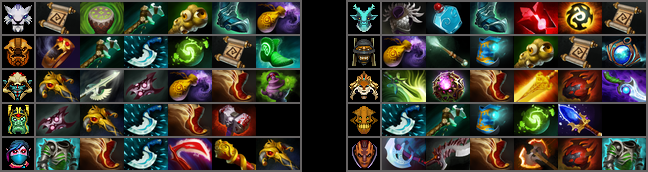
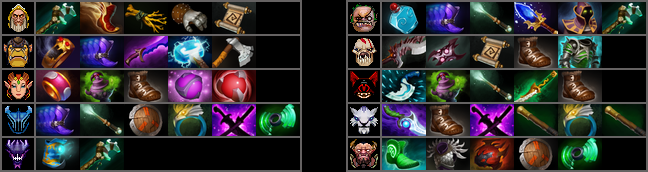
add guessing game

diff --git a/bot.py b/bot.py
@@ -10,6 +10,7 @@ from token_and_api_key import *
 from hero_dictionary import hero_dic
 from hero_dictionary import item_dic
 from hero_dictionary import game_mode_dic
+from random import randint
 
 logging.basicConfig(level=logging.INFO)
 client = discord.Client()
@@ -368,6 +369,22 @@ def big_pic(match_number, player_id):
     cv2.imwrite('images/heroes/lineup/itemlist2.png', pic3)
 
 
+def guessing_game():
+    player_id = array_of_ids[randint(0, len(array_of_ids)-1)]
+    custom_args = {
+                'result.players.account_id': player_id}
+    custom_args.update(match_search_args)
+    cursor = db['{}'.format(player_id)].find(custom_args)
+    cursor.sort('result.start_time', -1)
+    hist = list(cursor)
+    match_number = randint(0, len(hist)-1)
+    for i in range(10):
+        if player_id == hist[match_number]['result']['players'][i]['account_id']:
+            player_index = i
+    hero_id = hist[match_number]['result']['players'][player_index]['hero_id']
+    hero = hero_dic[hero_id]
+    big_pic(match_number, player_id)
+    return [hero, dic_reverse[player_id]]
 @client.event
 async def on_message(message):
     # do not want the bot to reply to itself
@@ -487,11 +504,31 @@ async def on_message(message):
             match_number = int(content[1])
             big_pic(match_number, player_id)
         await client.send_file(
-            message.channel, 'images/heroes/lineup/itemlist2.png')
+                message.channel, 'images/heroes/lineup/itemlist2.png')
+
+    if message.content.startswith('$guess'):
+        reply = guessing_game()
+        await client.send_message(message.channel, 'Guess a hero {} played that game'.format(reply[1]))
+        await client.send_file(
+                message.channel, 'images/heroes/lineup/itemlist2.png')
+
+        def guess_check(m):
+            return message.content
+
+        guess = await client.wait_for_message(timeout=35.0, author=message.author, check=guess_check)
+        answer = reply[0]
+        if guess is None:
+            fmt = 'Sorry, you took too long. It was {}.'
+            await client.send_message(message.channel, fmt.format(answer))
+            return
+        if guess.content == answer:
+            await client.send_message(message.channel, 'Yay! You are right.')
+        else:
+            await client.send_message(message.channel, 'Nope. It is actually {}.'.format(answer))
 
     if message.content == '!help':
         await client.send_message(message.channel, help_msg)
-# ============= only memes below ==============================================
+        # ============= only memes below ==============================================
     if message.content.startswith('%'):
         name = str(message.content).strip().lower()[1:]
         await client.send_file(
